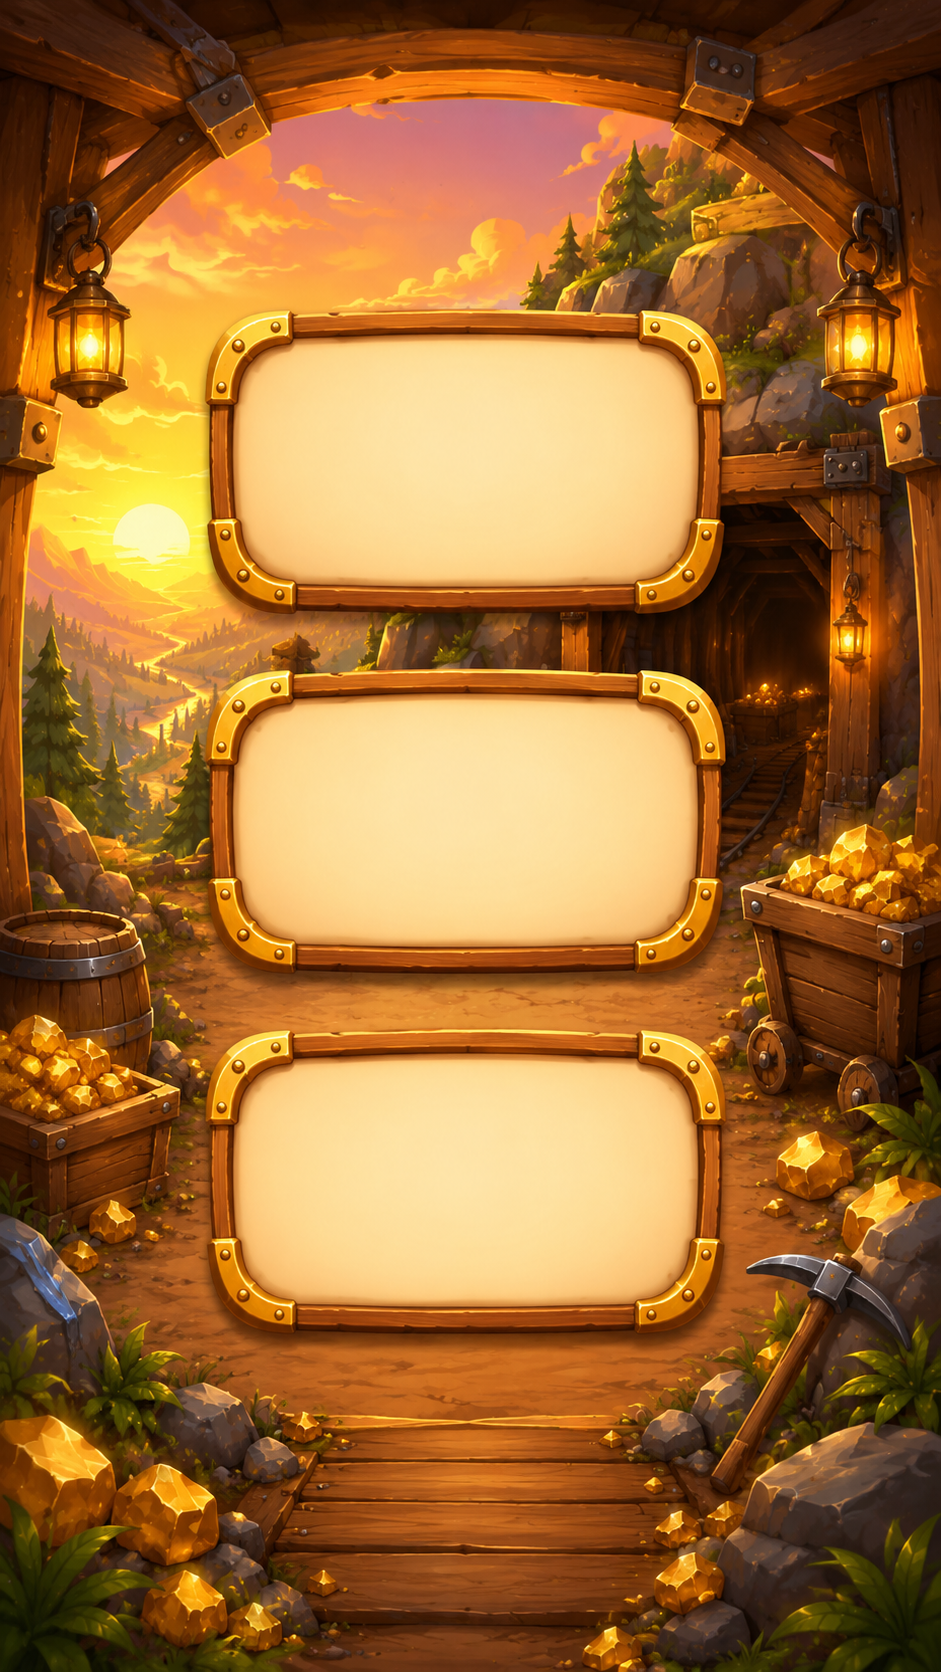
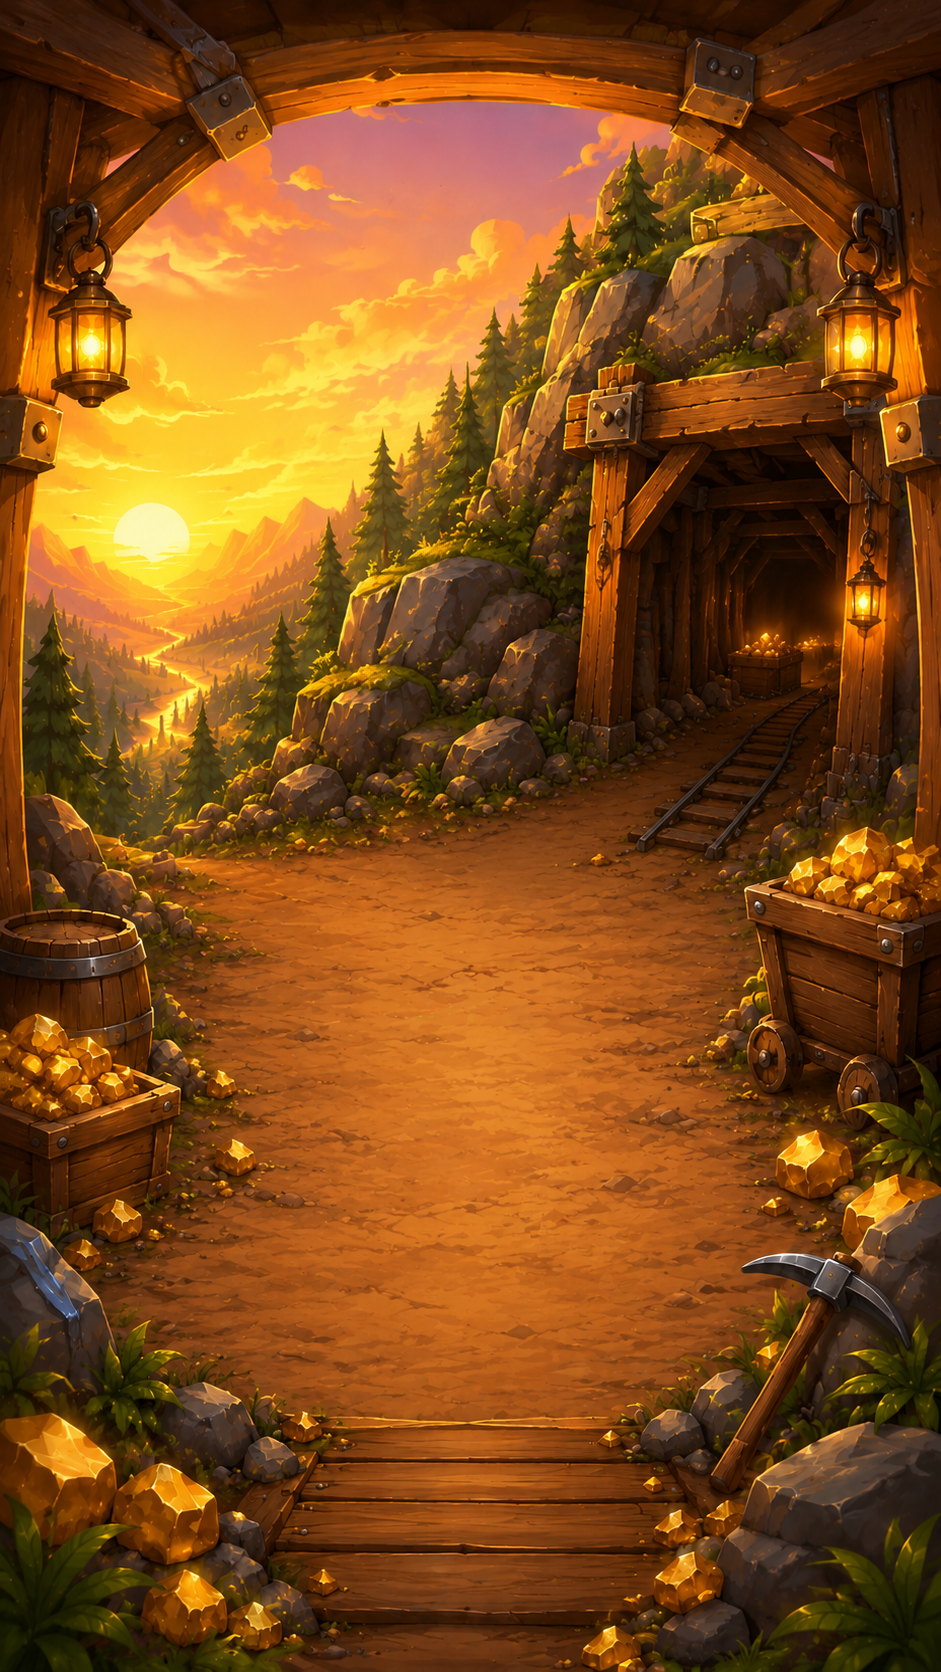
fix arcade cards

diff --git a/frontend/src/pages/ArcadePage.css b/frontend/src/pages/ArcadePage.css
@@ -5,86 +5,70 @@
   padding-bottom: 5.5rem;
 }
 
-.arcade-slots {
+.arcade-menu {
   list-style: none;
   margin: 0;
   padding: 0;
   position: absolute;
   left: 50%;
-  top: 21%;
+  top: 20%;
   transform: translateX(-50%);
-  width: min(80vw, 310px);
-  height: 56%;
+  width: min(90vw, 340px);
+  height: 58%;
   display: flex;
   flex-direction: column;
   justify-content: space-between;
+  gap: 0.4rem;
   box-sizing: border-box;
 }
 
-.arcade-slots__item {
+.arcade-menu__item {
   flex: 1;
   min-height: 0;
   display: flex;
 }
 
-.arcade-slot {
+.arcade-menu__btn {
   flex: 1;
   width: 100%;
   margin: 0;
-  padding: 5% 8% 2%;
+  padding: 0;
   border: none;
   background: transparent;
   cursor: pointer;
   display: flex;
   flex-direction: column;
   align-items: center;
-  justify-content: center;
-  gap: 0.15rem;
-  position: relative;
+  justify-content: flex-start;
+  gap: 0.25rem;
 }
 
-.arcade-slot:active:not(:disabled) {
+.arcade-menu__btn:active:not(:disabled) {
   transform: scale(0.98);
 }
 
-.arcade-slot--soon {
-  opacity: 0.92;
-}
-
-.arcade-slot__icon {
+.arcade-menu__card {
+  width: 100%;
   flex: 1 1 auto;
-  width: auto;
-  height: auto;
-  max-width: 88%;
-  max-height: 72%;
+  min-height: 0;
   object-fit: contain;
+  display: block;
   pointer-events: none;
 }
 
-.arcade-slot__title {
+.arcade-menu__title {
   flex: 0 0 auto;
-  font-size: clamp(0.8rem, 3.2vw, 1rem);
+  font-size: clamp(0.85rem, 3.4vw, 1.05rem);
   font-weight: 800;
-  line-height: 1.1;
-  color: #3d2912;
+  line-height: 1.15;
+  color: #fff8e1;
   text-align: center;
-  text-shadow: 0 1px 0 rgba(255, 248, 220, 0.85);
+  text-shadow: 0 2px 4px rgba(0, 0, 0, 0.75);
   pointer-events: none;
 }
 
-.arcade-slot__badge {
-  position: absolute;
-  top: 2%;
-  right: 5%;
-  font-size: 0.65rem;
-  font-weight: 700;
-  text-transform: uppercase;
-  letter-spacing: 0.04em;
-  padding: 0.15rem 0.4rem;
-  border-radius: 6px;
-  background: rgba(80, 50, 10, 0.85);
-  color: #fde68a;
-  pointer-events: none;
+.arcade-menu__btn--soon {
+  opacity: 0.95;
 }
 
 .arcade-back-btn {

diff --git a/frontend/src/pages/ArcadePage.jsx b/frontend/src/pages/ArcadePage.jsx
@@ -2,7 +2,7 @@ import "./ArcadePage.css";
 import React from "react";
 import { useNavigate } from "react-router-dom";
 import PageBackground from "../components/PageBackground.jsx";
-import { BACKGROUNDS } from "../assets/backgrounds.js";
+import { ARCADE_BG } from "../assets/arcadeAssets.js";
 import { ARCADE_GAMES } from "../assets/arcadeGames.js";
 import { audio } from "../utils/audioManager.js";
 
@@ -27,19 +27,18 @@ export default function ArcadePage() {
   };
 
   return (
-    <PageBackground image={BACKGROUNDS.arcade} className="arcade-page" overlay={false}>
-      <ul className="arcade-slots" aria-label="Выбор игры">
+    <PageBackground image={ARCADE_BG} className="arcade-page" overlay={false}>
+      <ul className="arcade-menu" aria-label="Выбор игры">
         {ARCADE_GAMES.map((game) => (
-          <li key={game.id} className="arcade-slots__item">
+          <li key={game.id} className="arcade-menu__item">
             <button
               type="button"
-              className={"arcade-slot" + (game.soon ? " arcade-slot--soon" : "")}
+              className={"arcade-menu__btn" + (game.soon ? " arcade-menu__btn--soon" : "")}
               onClick={() => onGameClick(game)}
               aria-label={game.title}
             >
-              <img className="arcade-slot__icon" src={game.icon} alt="" />
-              <span className="arcade-slot__title">{game.title}</span>
-              {game.soon ? <span className="arcade-slot__badge">Скоро</span> : null}
+              <img className="arcade-menu__card" src={game.card} alt="" />
+              <span className="arcade-menu__title">{game.title}</span>
             </button>
           </li>
         ))}

diff --git a/frontend/src/pages/MinesPage.css b/frontend/src/pages/MinesPage.css
@@ -1,23 +1,30 @@
 .mines-page .page-background__content {
-  padding-bottom: 5rem;
+  padding-bottom: 5.5rem;
+}
+
+/* Больше отступ под шапку TOTAL SCORE — HUD не заезжает */
+.mines-page .space-for-header {
+  height: 6.25rem;
 }
 
 .mines-ui {
-  padding: 0 0.75rem 1rem;
+  margin-top: 1.5rem;
+  padding: 0 0.65rem 1rem;
   max-width: 400px;
-  margin: 0 auto;
+  margin-left: auto;
+  margin-right: auto;
 }
 
 .mines-hud {
   display: flex;
   justify-content: space-between;
   gap: 0.5rem;
-  margin-bottom: 0.75rem;
+  margin-bottom: 0.85rem;
 }
 
 .mines-stat {
   flex: 1;
-  background: rgba(0, 0, 0, 0.45);
+  background: rgba(0, 0, 0, 0.5);
   border-radius: 10px;
   padding: 0.4rem 0.5rem;
   text-align: center;
@@ -36,15 +43,15 @@
   color: #fff8e1;
 }
 
+/* Сетка ниже, без лишней подложки — клетки на фоне шахты */
 .mines-grid {
   display: grid;
   grid-template-columns: repeat(5, 1fr);
-  gap: 4px;
-  margin: 0 auto 1rem;
-  max-width: min(92vw, 340px);
-  padding: 0.5rem;
-  border-radius: 12px;
-  background: rgba(30, 20, 10, 0.35);
+  gap: 5px;
+  margin: 1.25rem auto 1.1rem;
+  max-width: min(88vw, 300px);
+  padding: 0;
+  background: transparent;
 }
 
 .mines-cell {
@@ -60,6 +67,7 @@
 
 .mines-cell:disabled {
   cursor: default;
+  opacity: 0.92;
 }
 
 .mines-cell img {
@@ -67,6 +75,7 @@
   height: 100%;
   object-fit: contain;
   display: block;
+  filter: drop-shadow(0 2px 3px rgba(0, 0, 0, 0.35));
 }
 
 .mines-cell__label {
@@ -84,6 +93,7 @@
   flex-direction: column;
   align-items: center;
   gap: 0.5rem;
+  margin-top: 0.25rem;
 }
 
 .mines-start-btn,

diff --git a/frontend/src/assets/arcadeGames.js b/frontend/src/assets/arcadeGames.js
@@ -1,6 +1,6 @@
-const CACHE_VERSION = "3";
+const CACHE_VERSION = "6";
 
-function icon(path) {
+function card(path) {
   return `${path}?v=${CACHE_VERSION}`;
 }
 
@@ -8,22 +8,22 @@ export const ARCADE_GAMES = [
   {
     id: "mole",
     title: "Крот",
-    icon: icon("/img/arcade/icon-mole.png"),
+    card: card("/img/arcade/icon-mole-card.png"),
     path: "/mole",
     soon: false,
   },
   {
-    id: "catch",
-    title: "Поймай золото",
-    icon: icon("/img/arcade/icon-catch.png"),
-    path: null,
-    soon: true,
-  },
-  {
     id: "mines",
     title: "Сокровища",
-    icon: icon("/img/arcade/icon-mines.png"),
+    card: card("/img/arcade/icon-mines-card.png"),
     path: "/mines",
     soon: false,
+  },
+  {
+    id: "catch",
+    title: "Золотой дождь",
+    card: card("/img/arcade/icon-catch-card.png"),
+    path: null,
+    soon: true,
   },
 ];

diff --git a/frontend/src/pages/MinesPage.jsx b/frontend/src/pages/MinesPage.jsx
@@ -195,6 +195,9 @@ function MinesPage({ header_info, apiFetch, user, refreshUser, nextLifeIn }) {
         (typeof detail === "object" ? detail?.next_life_in_seconds : null);
       if (e.status === 403 && wait) {
         setMessage(`Жизни закончились. Следующая через ~${Math.ceil(wait / 60)} мин.`);
+      } else if (e.status === 503) {
+        const msg = typeof detail === "object" ? detail?.message : detail;
+        setMessage(msg || "База не обновлена на сервере. Нужна миграция.");
       } else if (e.status >= 500) {
         setMessage("Ошибка сервера. Подожди минуту и попробуй снова.");
       } else {

diff --git a/frontend/src/assets/backgrounds.js b/frontend/src/assets/backgrounds.js
@@ -1,6 +1,6 @@
 // Пути к фоновым картинкам.
 // После замены файлов увеличьте CACHE_VERSION и выполните: npm run build
-const CACHE_VERSION = "12";
+const CACHE_VERSION = "13";
 
 function bg(path) {
   return `${path}?v=${CACHE_VERSION}`;

diff --git a/frontend/src/assets/arcadeAssets.js b/frontend/src/assets/arcadeAssets.js
@@ -1,0 +1,7 @@
+const CACHE_VERSION = "6";
+
+function asset(path) {
+  return `${path}?v=${CACHE_VERSION}`;
+}
+
+export const ARCADE_BG = asset("/img/arcade/background.png");

diff --git a/auth/mines.py b/auth/mines.py
@@ -8,6 +8,7 @@ from datetime import datetime
 from fastapi import APIRouter, HTTPException, Request, status
 from pydantic import BaseModel, Field
 from sqlalchemy import select
+from sqlalchemy.exc import SQLAlchemyError
 
 from auth.router import MAX_LIVES, _get_current_user, _sync_lives
 from auth.utils import utcnow_naive
@@ -143,6 +144,18 @@ class MinesCashoutRequest(BaseModel):
 
 @router.post("/mines/start", response_model=MinesStartResponse)
 async def mines_start(request: Request, session: SessionDep):
+    try:
+        return await _mines_start_impl(request, session)
+    except SQLAlchemyError:
+        raise HTTPException(
+            status_code=status.HTTP_503_SERVICE_UNAVAILABLE,
+            detail={
+                "message": "База не обновлена (нет таблицы mines_sessions). Запустите миграции на сервере.",
+            },
+        ) from None
+
+
+async def _mines_start_impl(request: Request, session: SessionDep) -> MinesStartResponse:
     user, mech, next_life_in = await _get_current_user(request, session)
 
     if mech.lives <= 0:
@@ -157,6 +170,7 @@ async def mines_start(request: Request, session: SessionDep):
         if _session_expired(active, now):
             await _finish_session(active, mech, session, exploded=False)
             await session.refresh(mech)
+            await session.refresh(user)
         else:
             board = json.loads(active.board)
             opened = _parse_opened(active.opened)
